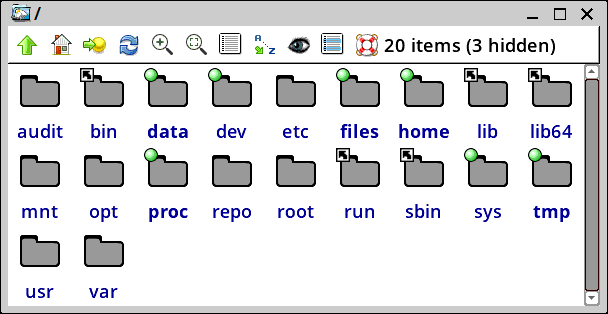
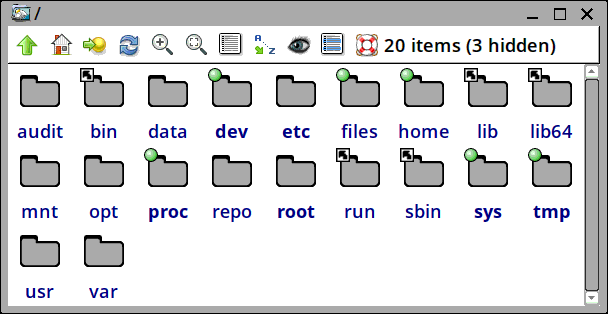
doc/easy fixes

diff --git a/buildquantumvis/rootfs/rootfs-skeleton/usr/share/doc/easy/welcome_en.htm b/buildquantumvis/rootfs/rootfs-skeleton/usr/share/doc/easy/welcome_en.htm
@@ -3,7 +3,7 @@
 <head>
  <meta content="text/html; charset=UTF-8" http-equiv="Content-Type">
  <meta content="Barry Kauler" name="author">
- <meta content="easy puppy quirky linux aufs overlay containers operating system pc" name="description">
+ <meta content="easy puppy quirky linux qv btrfs fscrypt operating system pc" name="description">
  <!-- BK makes table width scale to fit device screen width... -->
  <!-- <meta name="viewport" content="width=device-width"> -->
  <meta name="viewport" content="width=655px">
@@ -33,15 +33,15 @@
         </td>
         <td valign="top">&nbsp;&nbsp; <br>
          <b><font size="+3">Welcome,</font></b><br>
-         <font size="+3">you are using Easy for the first time!</font>
+         <font size="+3">you are using QV for the first time!</font>
         </td>
        </tr>
       </tbody>
      </table>
      <br>
-     Easy is a "new paradigm" for an Operating System, a blend of the best ideas from Puppy Linux and Quirky Linux, and a fundamental rethink of security, maintainability and ease-of-use. <br>
+     QV is a "new paradigm" for an Operating System, a blend of the best ideas from EasyOS, Puppy Linux and Quirky Linux, and a fundamental rethink of security, maintainability and ease-of-use. <br>
      <br>
-     Reading this for the first time, you want a quick overview, to grasp the basic ideas behind Easy, what is special, practical usage, and why should you even bother to switch from the OS you are currently using? <br>
+     Reading this for the first time, you want a quick overview, to grasp the basic ideas behind QV, what is special, practical usage, and why should you even bother to switch from the OS you are currently using? <br>
      <h2>The desktop</h2>
      Firstly, the desktop. It looks pretty much like any desktop, a bit retro, but we consider that to be a good thing. Rather than lengthy explanations, the best way to discover what the desktop can offer you, is just to explore. Have fun, poke around in the menu, click the icons in the tray, mouse-over will also pop-up useful information. <br>
      <br>
@@ -49,7 +49,6 @@
      
  <img src="images/desktop1.png" alt="desktop1" width="640" height="480"> 
 <!--     <div style="position:relative;width:640px;height:480px;background:url(images/desktop1.png);background-repeat: no-repeat;">
-		 <div class="t" style="top:96px;left:480px;width:144px;">Containerized<br>apps</div> --BLOB1--
 		 <div class="t" style="top:70px;left:204px;width:144px;">Install<br>mega-apps</div>
 		 <div class="t" style="top:150px;left:98px;width:216px;">Share files & printers<br>over the network</div>
 		 <div class="t" style="top:230px;left:8px;width:248px;">Connect to the Internet</div>
@@ -94,20 +93,19 @@
       </tbody>
      </table>
      <br>
-     In these example pictures, Easy is installed on a USB Flash drive, that identifies itself as sdb. There are two partitions, sdb1 is the <i>boot</i> partition, and sdb2 is the <i>working</i> partition. Note the orange rectangle -- this means sdb2 is mounted and cannot be unmounted. <br>
+     In these example pictures, QV is installed on a USB Flash drive, that identifies itself as sdb. There are two partitions, sdb1 is the <i>boot</i> partition, and sdb2 is the <i>working</i> partition. Note the orange rectangle -- this means sdb2 is mounted and cannot be unmounted. <br>
      Drive sda is an internal drive, and sda2 is mounted, and can be unmounted by clicking on the "x". <br>
      Try for yourself: click any partition, and it will mount and the file manager will open. <br>
      <br>
-     Using Easy is easy, however, to discover the hidden power, it is necessary to have some appreciation of what is going on underneath... <br>
-     <h2>How Easy works</h2>
-     It has already been stated that sdb1 is the boot-partition in the above pictures. That contains the Limine boot loader, which is the very first menu you see at power-on. The boot loader is responsible for loading the Linux kernel and the first stage of the Linux operating system. The kernel is named "vmlinuz", the first-stage file is "initrd" and the rest of EasyOS is file "easy.sfs". These files reside in sdb2, the working-partition.
+     Using QV is easy; however, to discover the hidden power, it is necessary to have some appreciation of what is going on underneath... <br>
+     <h2>How QV works</h2>
+     It has already been stated that sdb1 is the boot-partition in the above pictures. That contains the Limine boot loader, which is the very first menu you see at power-on. The boot loader is responsible for loading the Linux kernel and the first stage of the Linux operating system. The kernel is named "vmlinuz", the first-stage file is "initrd"; they are in the boot-partition. The QV operating system is in sdb2, the working-partition.<br>
      <br>
-     After bootup, if you open the file manager, and look at "/", the top-level of the directories, this is what you see: looks as you would expect, yes?
-     <br>
+     After bootup, if you open the file manager, and look at "/", the top-level of the directories, this is what you see: looks as you would expect, yes?<br>
      <table cellspacing="2" cellpadding="2" border="0" width="100%">
       <tbody>
        <tr>
-        <td valign="top"><img src="images/top-of-layers.png" alt="top-of-layers" width="546" height="305"><br>
+        <td valign="top"><img src="images/top-of-rootfs.png" alt="top-of-layers" width="608" height="314"><br>
         </td>
        </tr>
       </tbody>
@@ -130,48 +128,32 @@
      Some hints as to what those folders do: <br>
      <table cellspacing="2" cellpadding="2" border="0" width="100%">
       <tbody>
-       <tr><td valign="top"><b>containers</b></td><td valign="top">Encrypted folder for containers, as Easy is a container-friendly OS and can run apps securely</td></tr>
+       <tr>
+        <td valign="top"><b>data</b>
+        </td>
+        <td valign="top">For anything. AppImages and Flatpaks install here. Build area for woofQV.
+        </td>
+       </tr>
        <tr>
         <td valign="top"><b>files</b>
         </td>
-        <td valign="top">Encrypted folder where you keep all your own files, such as photos, downloads, documents
+        <td valign="top">Folder where you keep all your own files, such as photos, downloads, documents. Optionally encrypted.
         </td>
        </tr>
        <tr>
-        <td valign="top"><b>releases</b>
+        <td valign="top"><b>home</b>
         </td>
-        <td valign="top">Encrypted folder where complete history is recorded, for rollback and recovery
-        </td>
-       </tr>
-       <tr>
-        <td valign="top"><b>sfs</b>
-        </td>
-        <td valign="top">All SFS files are kept in here
+        <td valign="top">Each app may run as its own user; home folders are in here. Optionally encrypted.
         </td>
        </tr>
       </tbody>
      </table>
      <br>
-     The quick answer to whereabouts of that "/", is that it is on top of a layered filesystem in RAM. This means that Easy runs very fast, and there are no writes to the drive -- so running on a flash drive, it will last "forever".<br>
+     The quick answer to whereabouts of that "/", is that it is in a btrfs subvolume inside the working-partition. Which might be a meaningless explanation! In which case, read this online web page:<br>
      <br>
-     In the "/" snapshot, notice /files -- apps default to open|save|download here, but it is a link to /mnt/sdb2/easyos/files. So /files is not in RAM, it is for permanent storage of your personal files.<br>
-     <br>
-     You can just blissfully go ahead and use Easy, however, if you are intrigued by how "/" is created, and the purpose of those folders in the working partition, please read this online web page:<br>
-     <br>
-     <font size="+1"><a href="https://easyos.org/tech/how-easy-works-part-2.html">How Easy works (user perspective)</a>
+     <font size="+1"><a href="https://bkhome.org/news/202403/quirky-has-returned.html">Brief introduction to Quirky Linux</a>
      </font><br>
      <br>
-     As you are reading this, you must already have Easy installed. Probably on a USB Flash drive, which is fine. However...<br>
-     <h2>How to install Easy</h2>
-     There is absolutely no problem with running Easy indefinitely from a USB Flash stick, however, you are likely to reach that point where you would like to install Easy on the internal hard drive of your PC. <br>
-     <br>
-     No problem! In the "Setup" menu, there is "Easy Installer". Run that, and you will be guided through installing Easy to a hard drive. <br>
-     <br>
-     There is also an online web page that will clarify the details: <br>
-     <br>
-     <font size="+1">
-      <a href="https://easyos.org/install/how-to-install-easyos-on-your-hard-drive.html">How to install Easy OS on your hard drive</a>
-     </font> <br>
      <br>
      <h2>More help</h2>
      Easy has more local help documents like this one. There are also more online help documents. Also a forum. Take your pick: <br>
@@ -185,9 +167,9 @@
         </td>
        </tr>
        <tr>
-        <td valign="top"><b>Online help:</b><br>
+        <td valign="top"><b>Online blog:</b><br>
         </td>
-        <td valign="top"><font size="+1"><a href="https://easyos.org/">https://easyos.org/</a></font></td>
+        <td valign="top"><font size="+1"><a href="https://bkhome.org/news/">https://bkhome.org/news/</a></font></td>
        </tr>
        <tr>
         <td valign="top"><b>Online forum:</b><br>

diff --git a/buildquantumvis/rootfs/rootfs-skeleton/usr/share/doc/easy/home_en.htm b/buildquantumvis/rootfs/rootfs-skeleton/usr/share/doc/easy/home_en.htm
@@ -2,9 +2,9 @@
 <html>
 <head>
  <meta http-equiv="content-type" content="text/html; charset=UTF-8">
- <title>EasyOS</title>
+ <title>QV Home page</title>
  <meta name="author" content="Barry Kauler">
- <meta name="description" content="easyos easy linux help puppy quirky distribution">
+ <meta name="description" content="easyos easy linux help puppy quirky qv void distribution">
 </head>
 <body>
  <table cellspacing="2" cellpadding="2" border="0" width="640" align="center">
@@ -135,7 +135,7 @@
           <tbody>
            <tr>
             <td valign="top">
-             <b><a href="https://bkhome.org/news/tag_easy.html">Developer Blog</a></b>
+             <b><a href="http://bkhome.org/news/tag_easy.html">Developer Blog</a></b>
             </td>
            </tr>
            <tr>

diff --git a/buildquantumvis/rootfs/rootfs-skeleton/usr/share/doc/easy/help_en.htm b/buildquantumvis/rootfs/rootfs-skeleton/usr/share/doc/easy/help_en.htm
@@ -4,7 +4,7 @@
  <meta http-equiv="content-type" content="text/html; charset=UTF-8">
  <title>EasyOS Help</title>
  <meta name="author" content="Barry Kauler">
- <meta name="description" content="easy linux help puppy quirky qv void distribution">
+ <meta name="description" content="easy linux help puppy quirky distribution">
 </head>
 <body>
  <table cellspacing="2" cellpadding="2" border="0" width="600" align="center">
